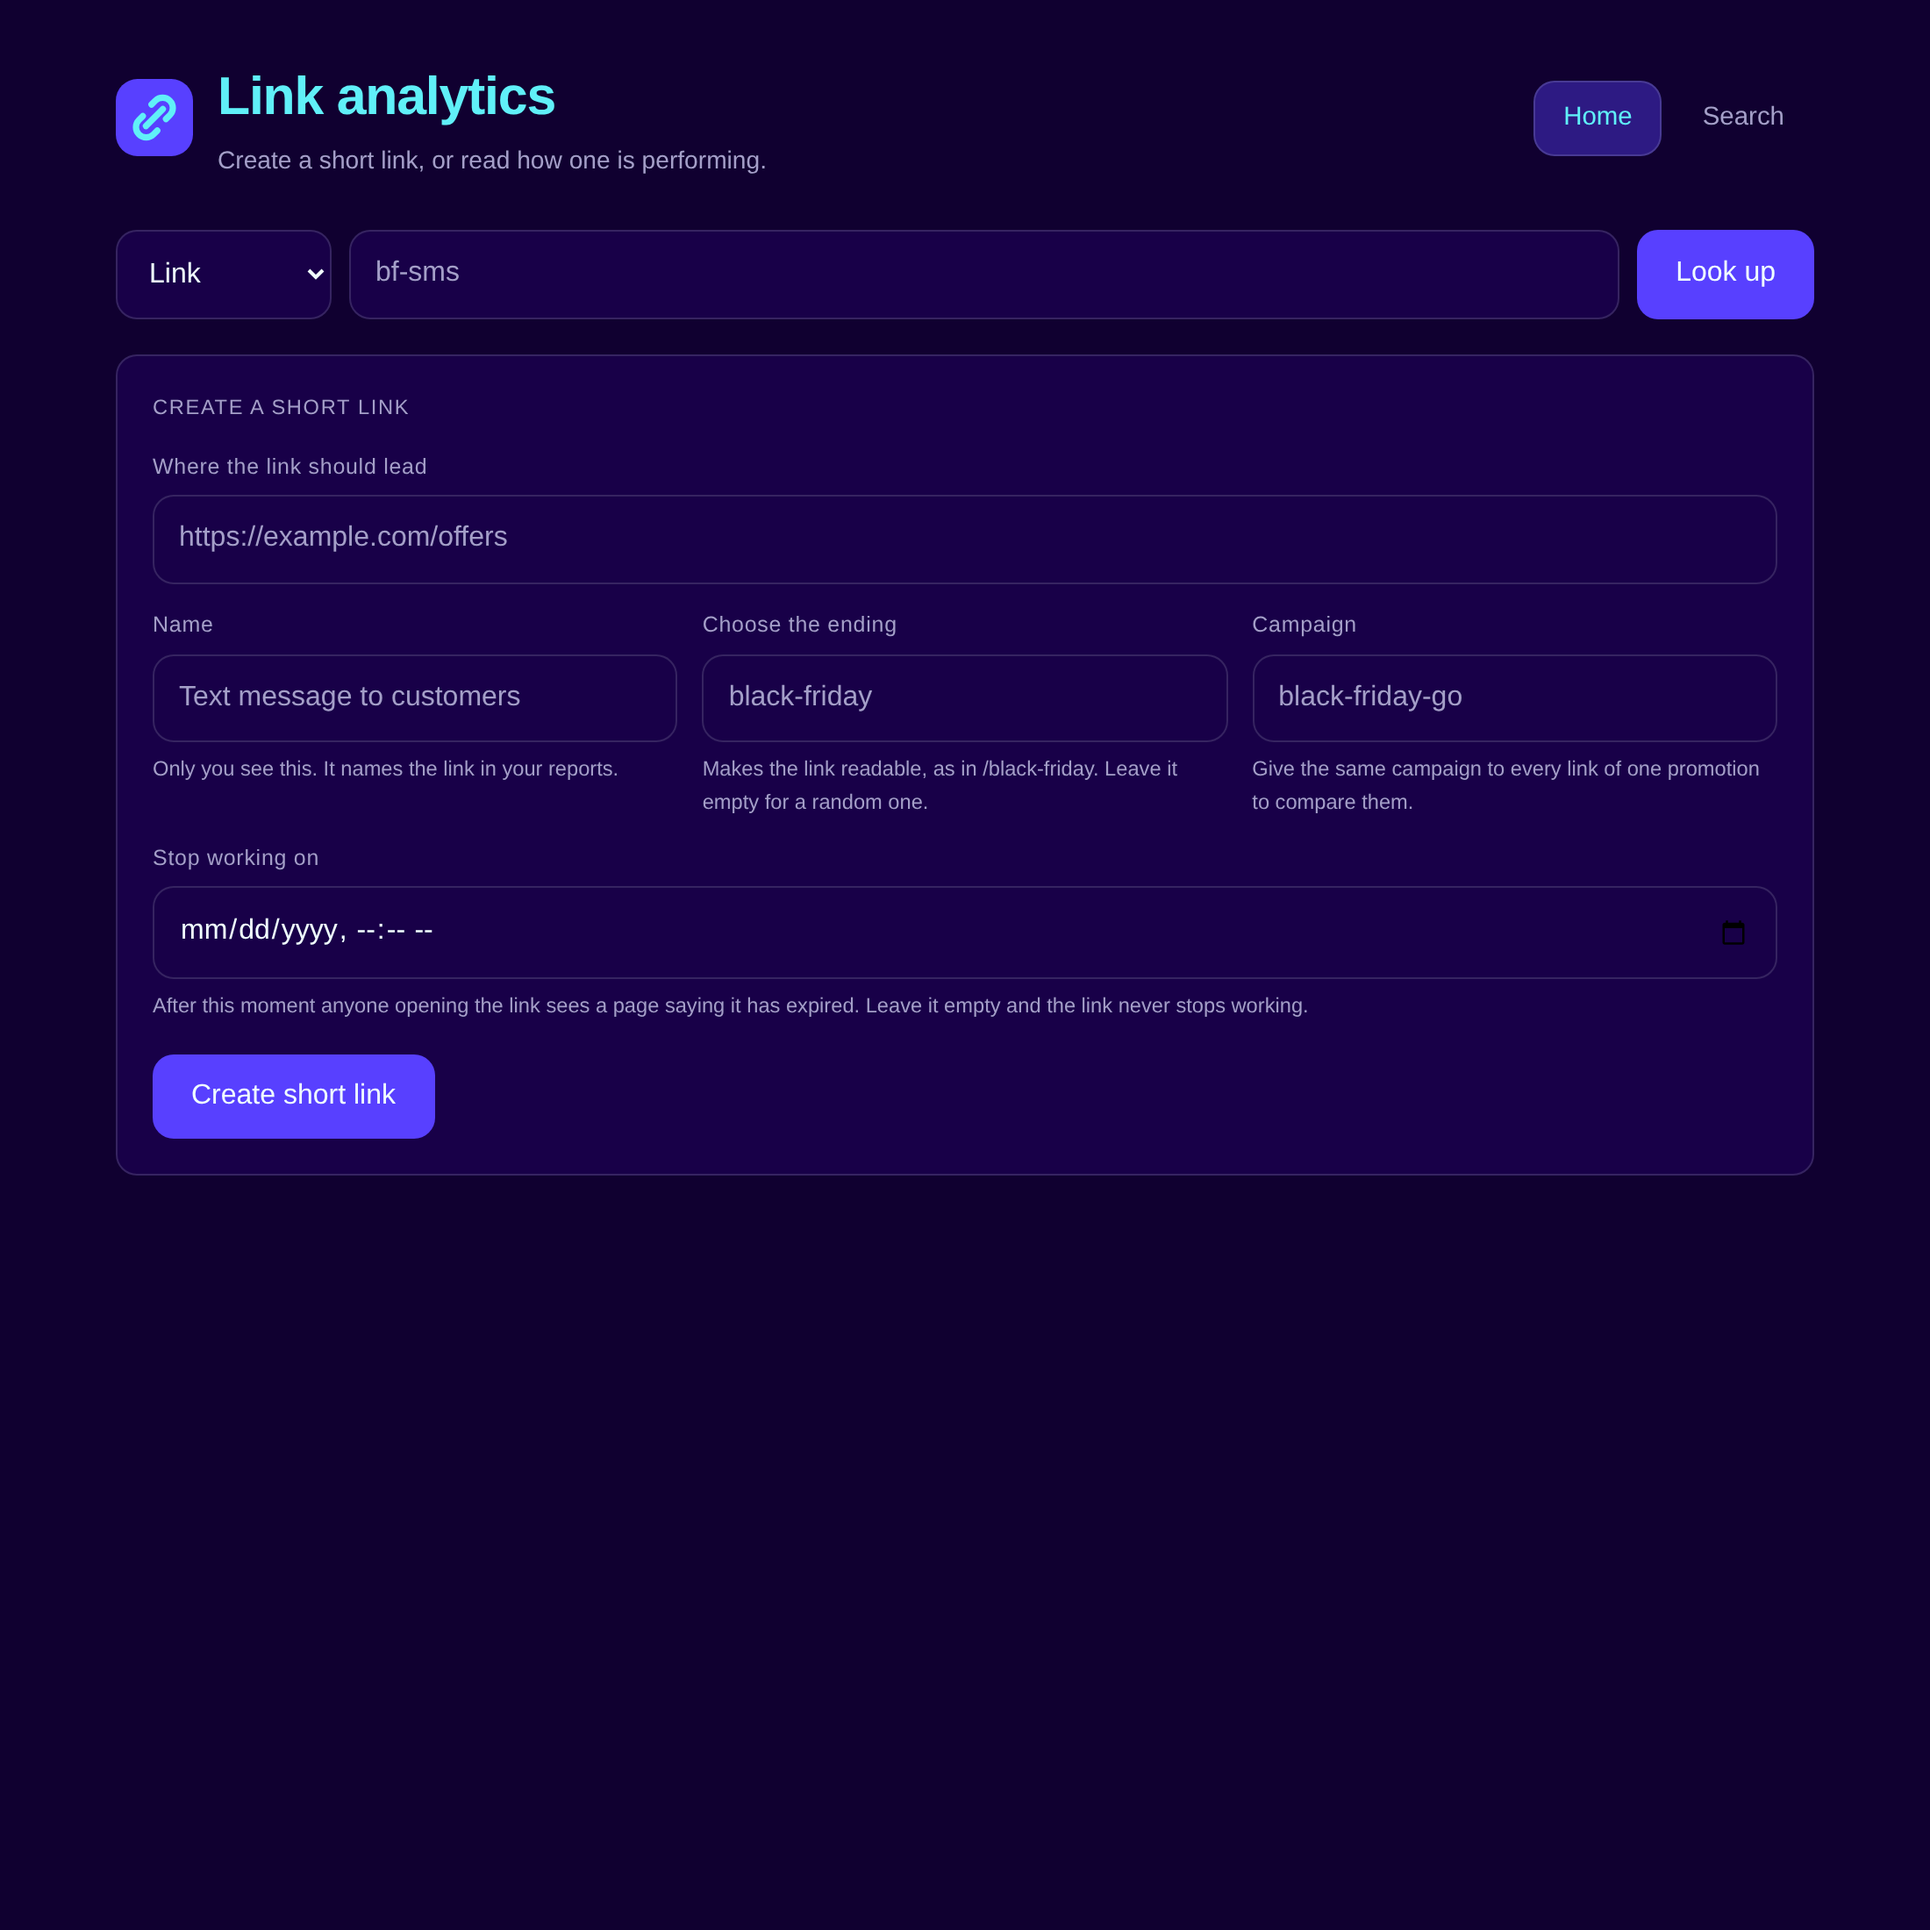
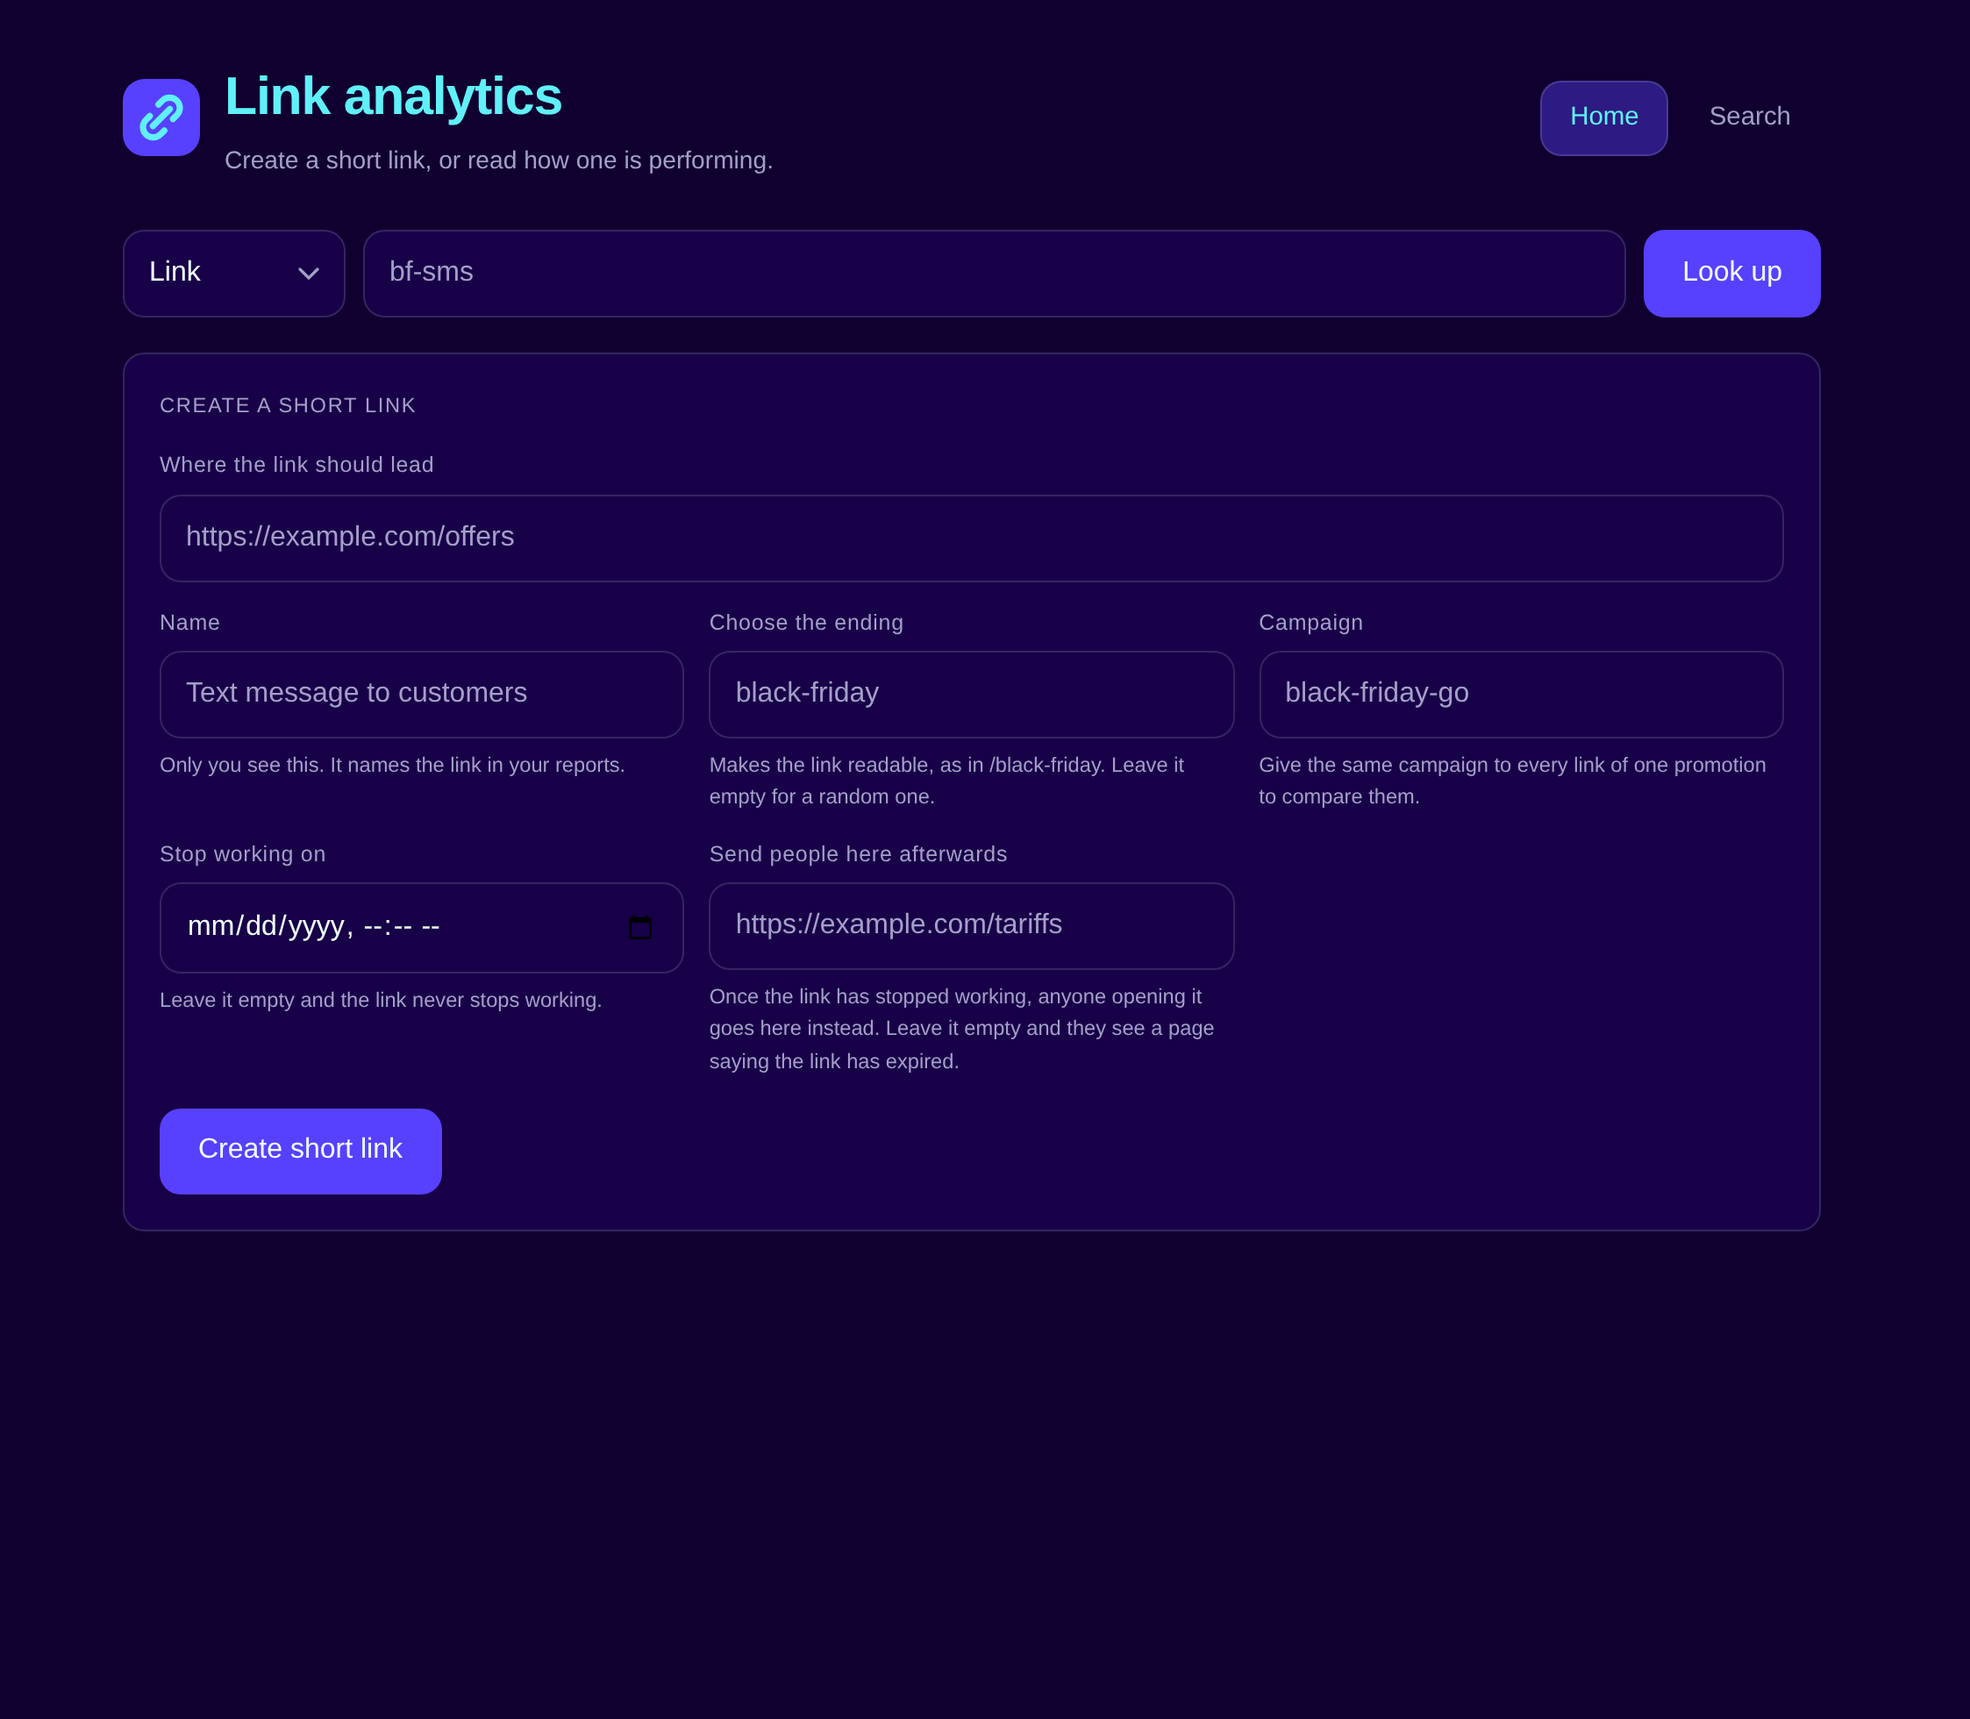
feat(analytics): choose where an expired link sends people
The form can set a fallback again, worded for whoever is placing a campaign rather than
for the API: leave it empty and a visitor sees the page saying the link has expired, fill
it in and they go there instead. A link's own line confirms the choice, so the person who
set it can see where people will land once the date passes.

Refusals from the API are now said in the form's own terms: the field is named as the form
names it, and the prefix the validation library adds to its messages is dropped.

diff --git a/app/static/index.html b/app/static/index.html
@@ -245,10 +245,16 @@
           <input id="f-campaign" name="campaign" maxlength="100" placeholder="black-friday-go">
           <span class="hint">Give the same campaign to every link of one promotion to compare them.</span>
         </div>
-        <div class="field field--wide">
+        <div class="field">
           <label for="f-expires">Stop working on</label>
           <input id="f-expires" name="expires_at" type="datetime-local">
-          <span class="hint">After this moment anyone opening the link sees a page saying it has expired. Leave it empty and the link never stops working.</span>
+          <span class="hint">Leave it empty and the link never stops working.</span>
+        </div>
+        <div class="field">
+          <label for="f-fallback">Send people here afterwards</label>
+          <input id="f-fallback" name="fallback_url" type="url"
+                 placeholder="https://example.com/tariffs">
+          <span class="hint">Once the link has stopped working, anyone opening it goes here instead. Leave it empty and they see a page saying the link has expired.</span>
         </div>
       </div>
       <div class="actions">
@@ -484,6 +490,9 @@
         document.createTextNode(" · "),
         tag(`Expires ${formatMoment(stats.expires_at)}`),
       );
+      if (stats.fallback_url) {
+        parts.push(document.createTextNode(` · then sends people to ${stats.fallback_url}`));
+      }
     }
 
     document.getElementById("lifetime").replaceChildren(...parts);
@@ -574,12 +583,27 @@
     }
   }
 
+  // Field names as the API knows them, said the way the form says them.
+  const FIELD_NAMES = {
+    url: "Where the link should lead",
+    label: "Name",
+    code: "Ending",
+    campaign: "Campaign",
+    expires_at: "Stop working on",
+    fallback_url: "Send people here afterwards",
+  };
+
   /** Turn whatever the API put in `detail` into one line a person can act on. */
   function describeFailure(status, detail) {
     if (Array.isArray(detail)) {
       return detail
-        .map((item) => (item.field ? `${item.field}: ${item.message}` : item.message))
-        .join("; ");
+        .map((item) => {
+          // Validation messages arrive prefixed by the library that raised them.
+          const text = String(item.message || "").replace(/^value error,\s*/i, "");
+          const name = FIELD_NAMES[item.field];
+          return name ? `${name}: ${text}` : text;
+        })
+        .join(". ");
     }
     if (typeof detail === "string" && detail) return detail;
     return `The API answered with HTTP ${status}.`;
@@ -608,6 +632,9 @@
     "f-code": {
       patternMismatch:
         "Use 3 to 32 characters: letters, numbers, hyphens or underscores, with no spaces.",
+    },
+    "f-fallback": {
+      typeMismatch: "Enter a full web address, starting with http:// or https://",
     },
   };
 
